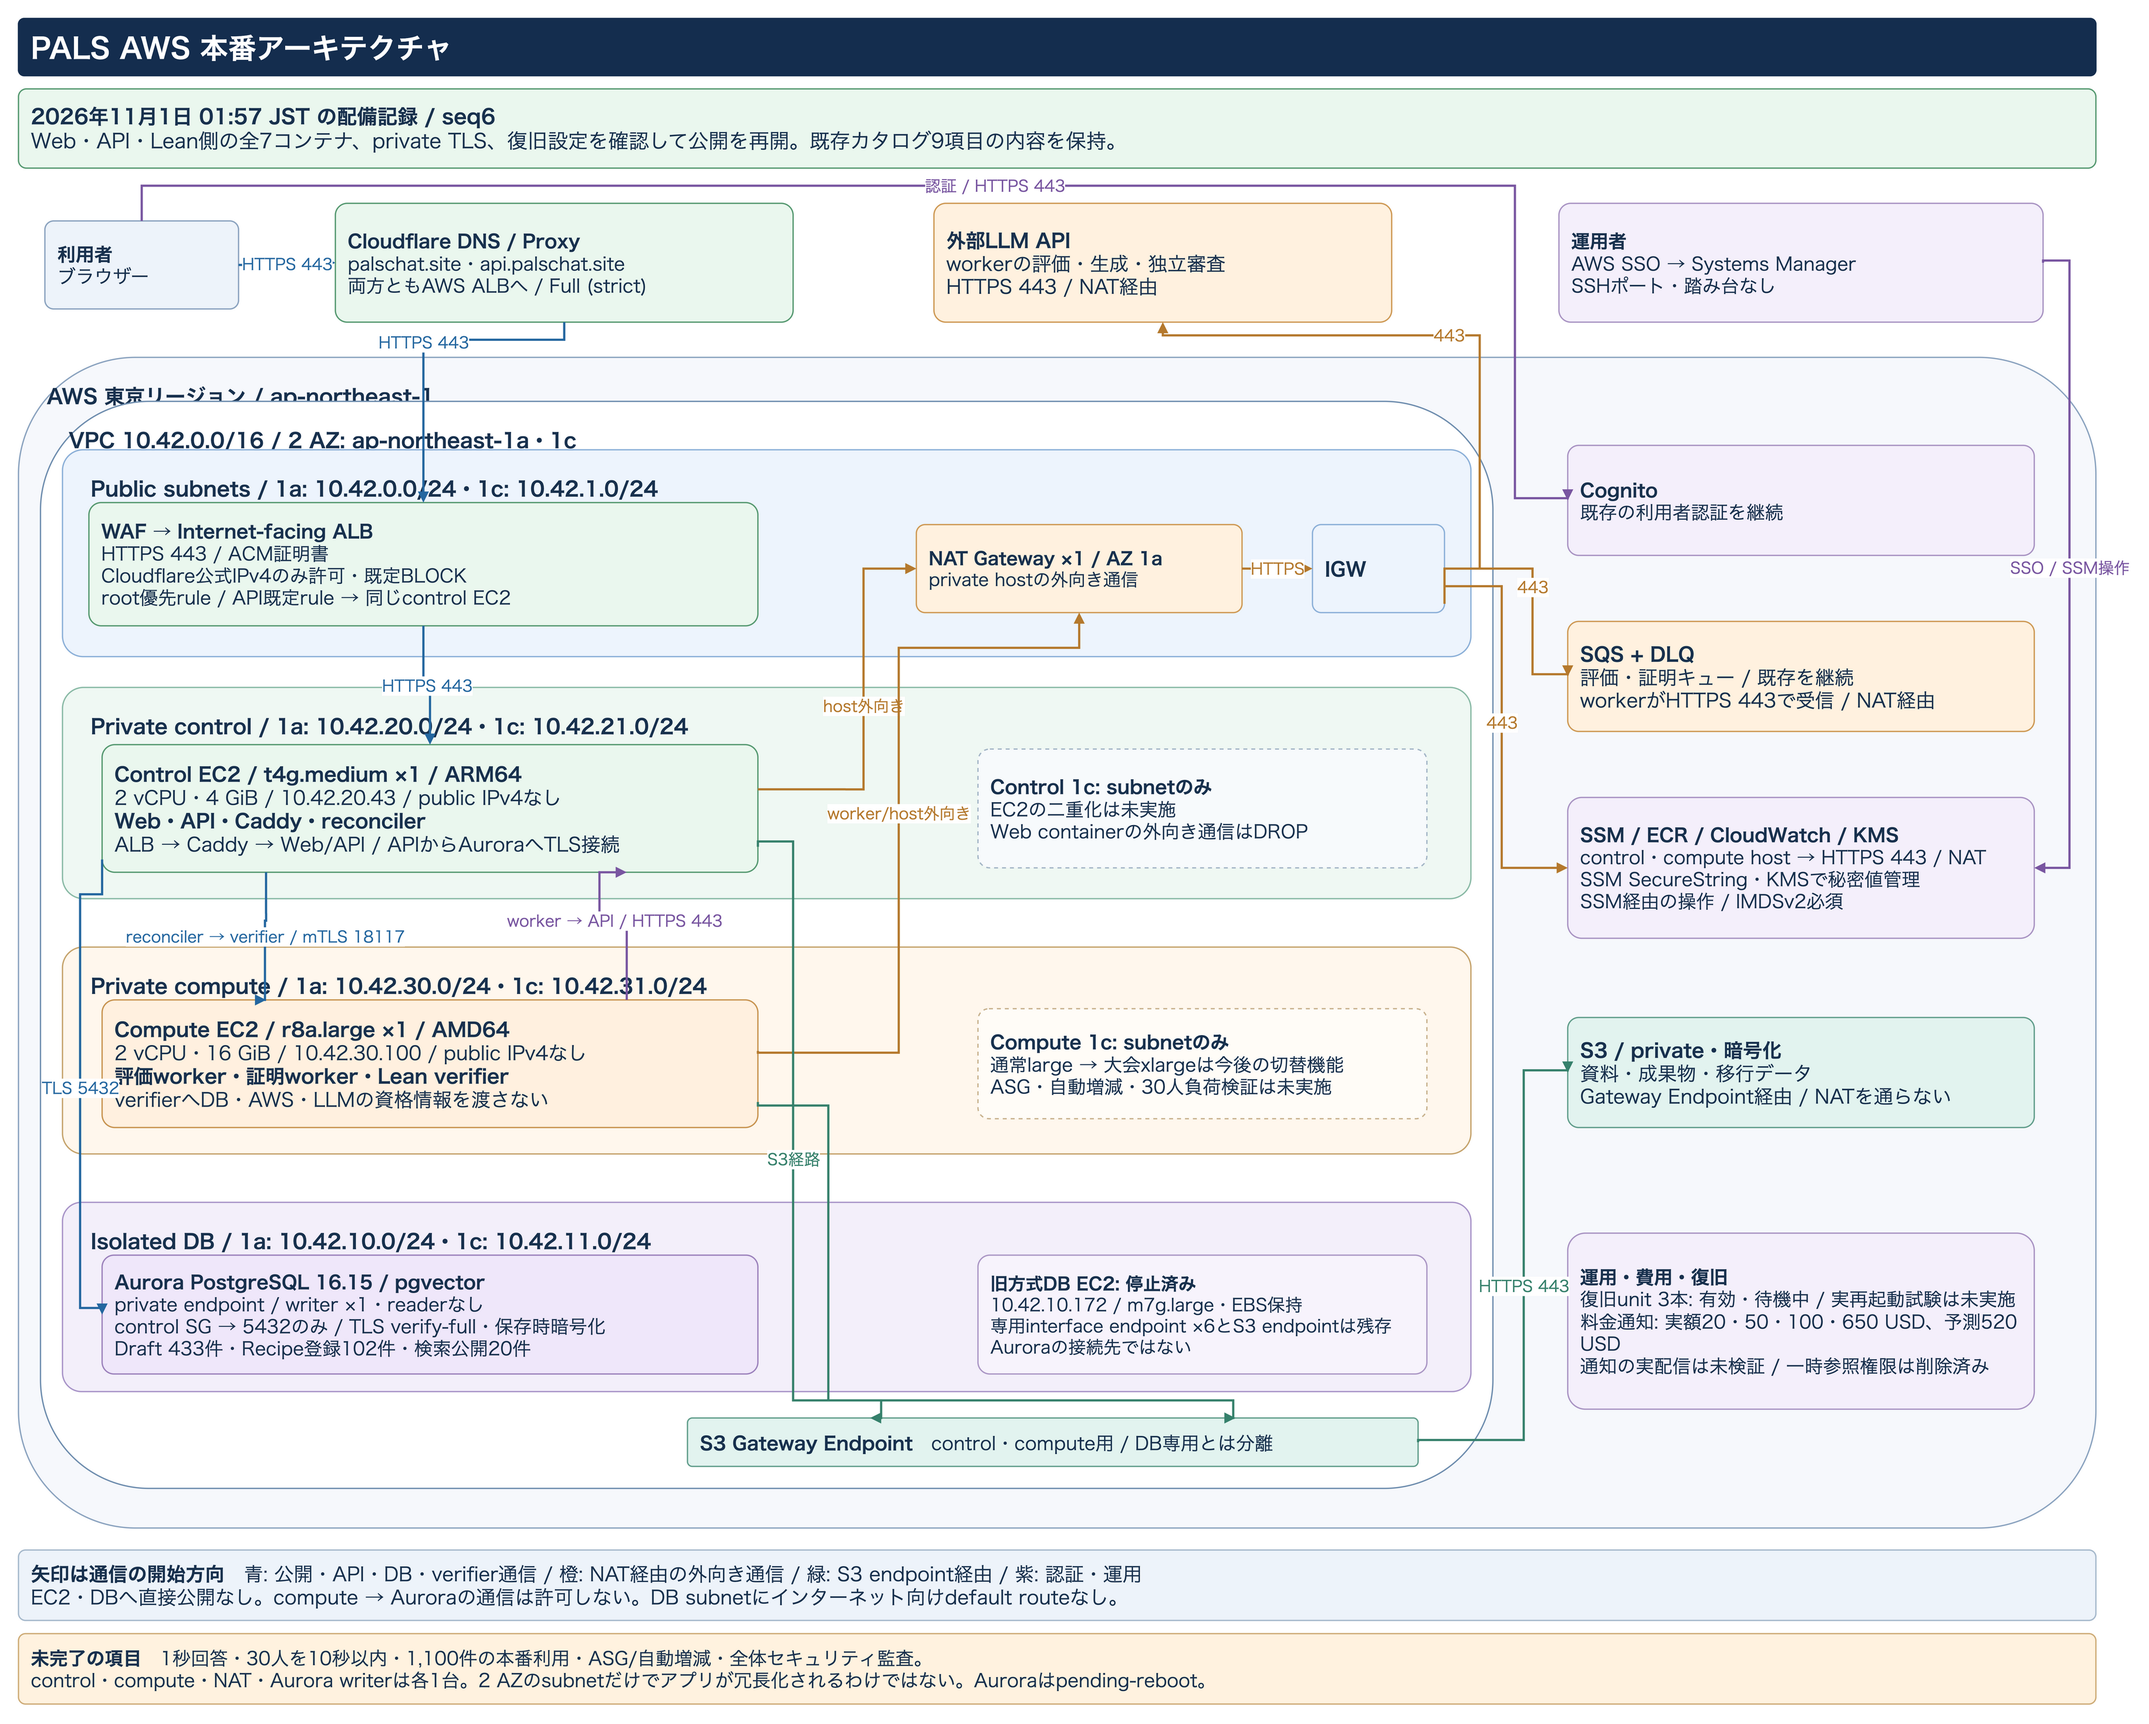
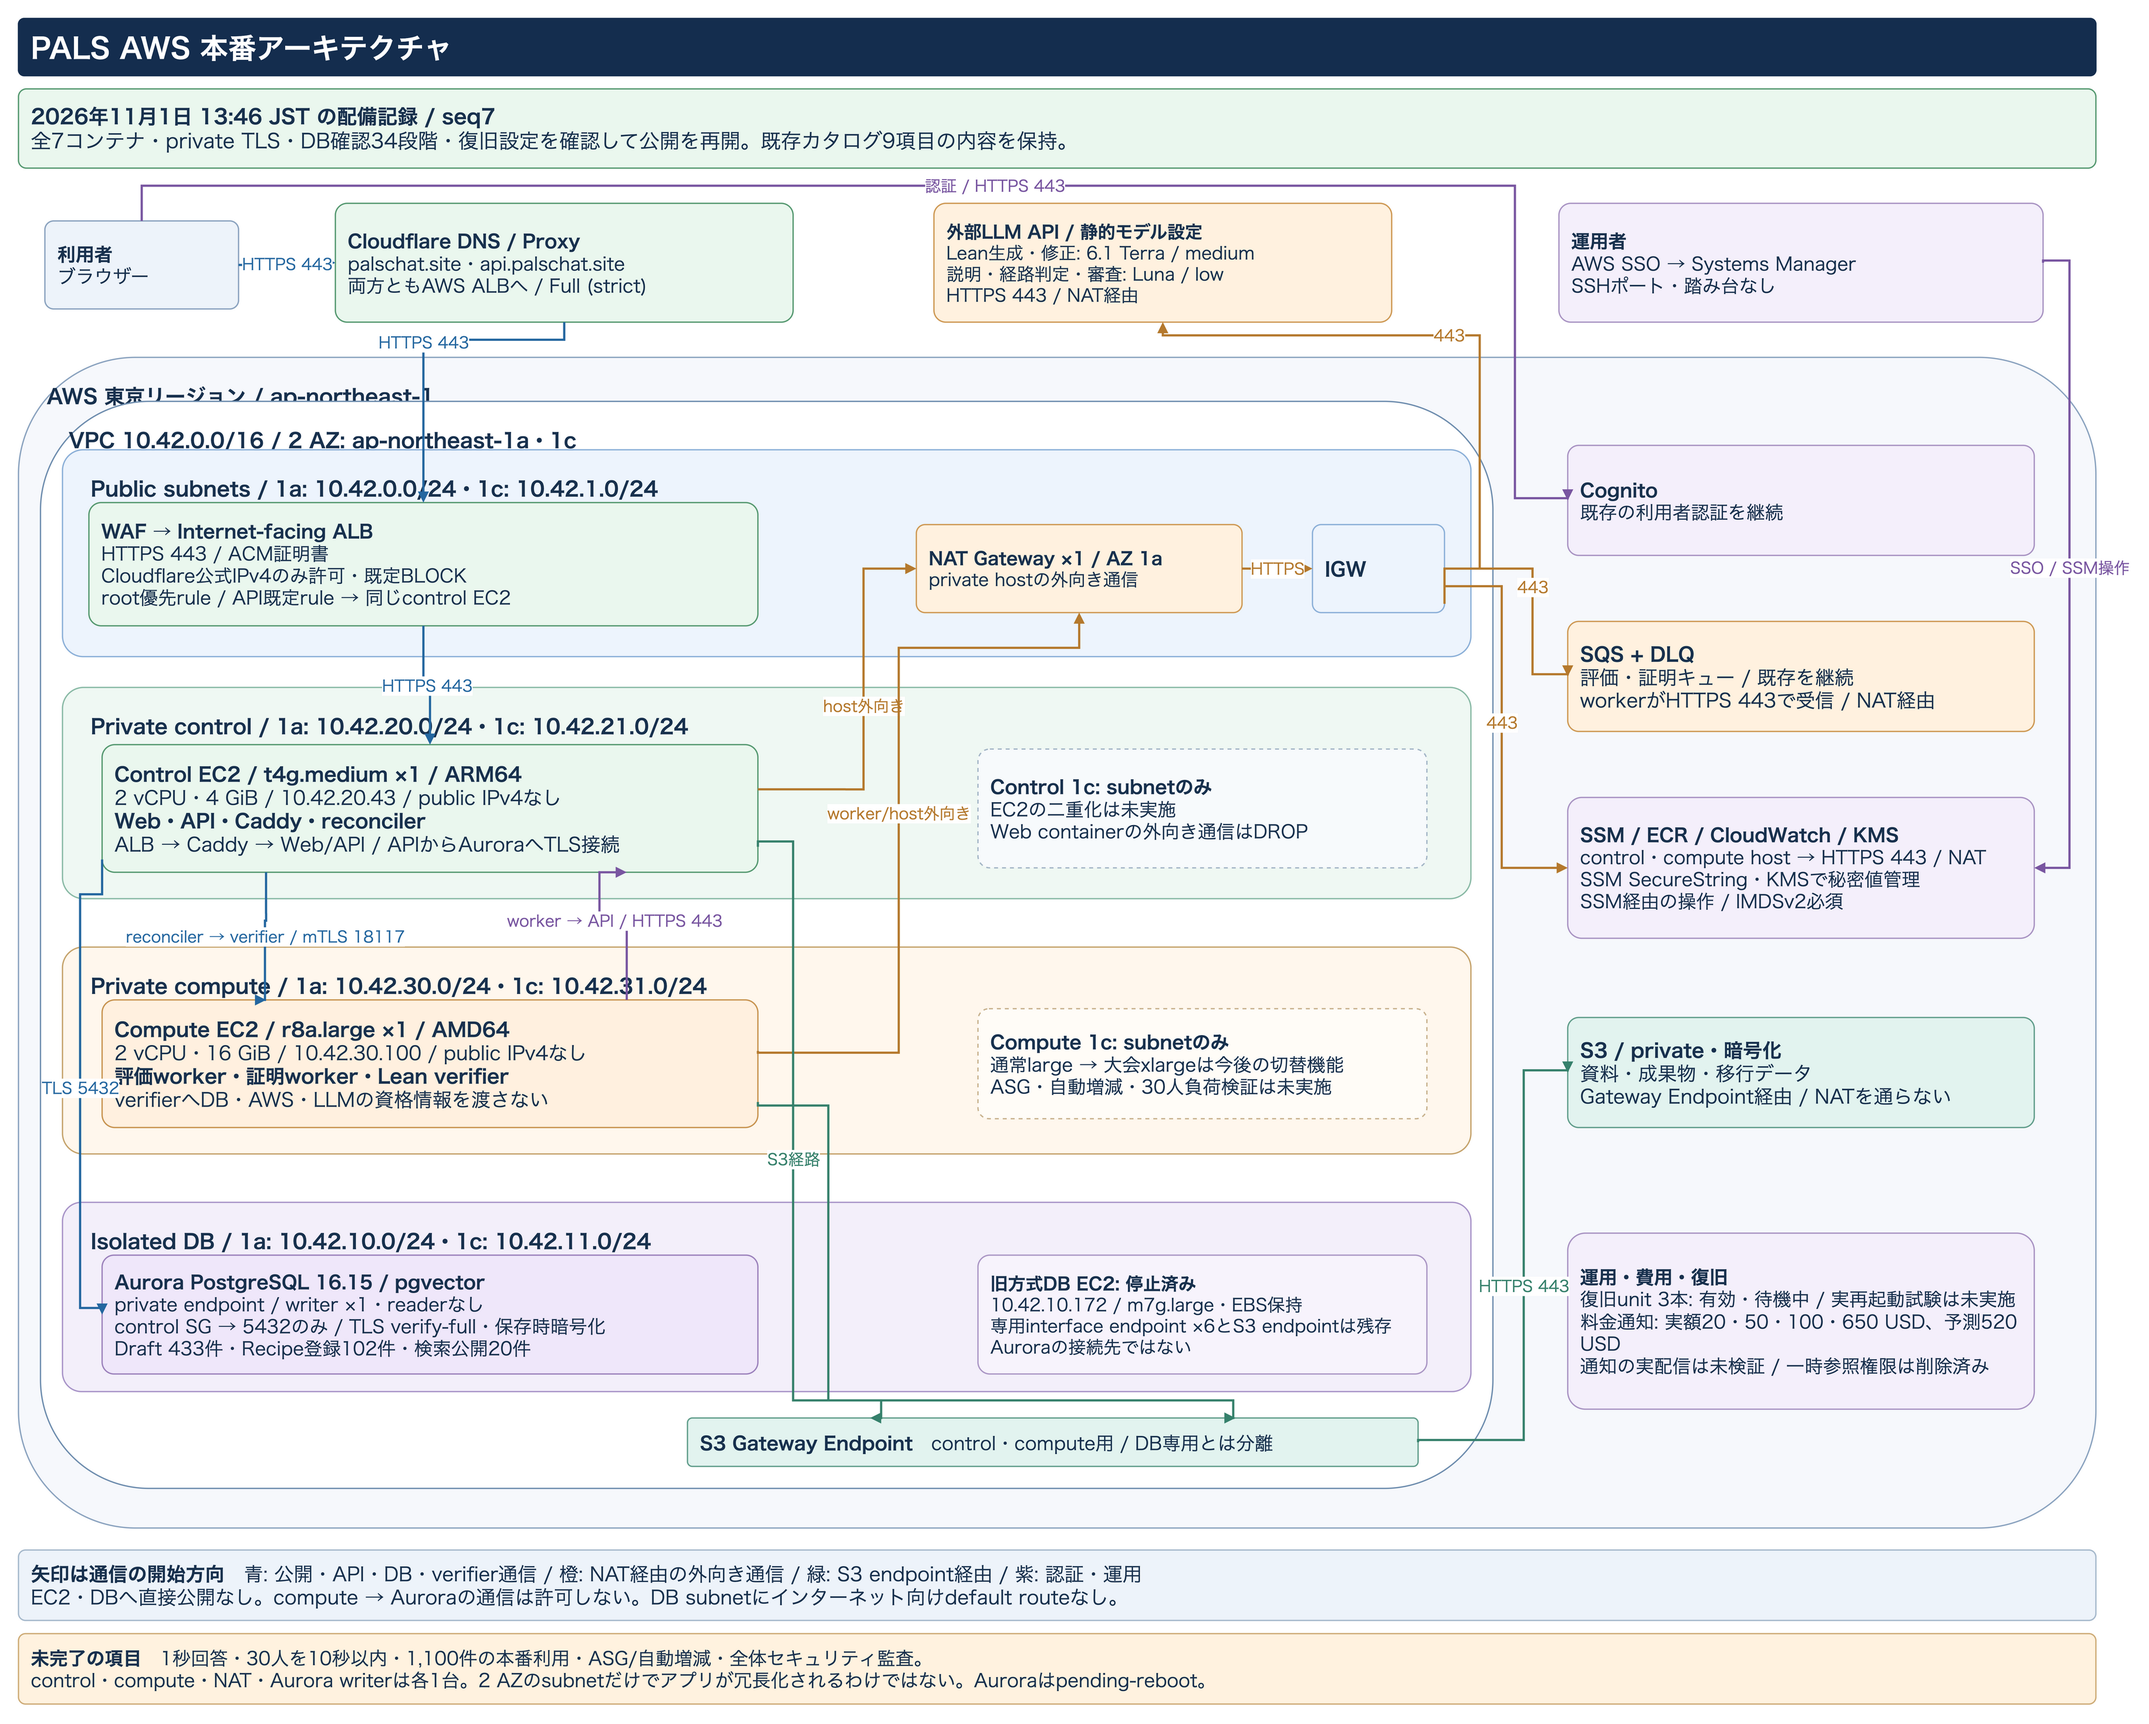
docs: reflect deployed sequence 7 in AWS architecture

Changed region(s): [[0.0, 0.0619, 0.4981, 0.0929], [0.4358, 0.1239, 0.5915, 0.1858]]

diff --git a/docs/diagrams/generate_architecture.py b/docs/diagrams/generate_architecture.py
@@ -1,7 +1,7 @@
 #!/usr/bin/env python3
-"""Generate the editable seq6 architecture snapshot; export PNG with draw.io.
+"""Generate the editable seq7 architecture snapshot; export PNG with draw.io.
 
-Evidence: docs/aws-migration-runbook-2026-10-30.md (seq6),
+Evidence: signed seq7 manifest and actual both-host/catalog read-back receipts,
 docs/aws-security-and-catalog-check-2026-10-31.md. No AWS calls are made.
 All coordinates, labels and connectors below are diagram source, not an image.
 """
@@ -11,7 +11,7 @@ from xml.etree import ElementTree as ET
 DEST = Path(__file__).with_name('pals-aws-private-target.drawio')
 WIDTH, HEIGHT = 2440, 1980
 mxfile = ET.Element('mxfile', host='app.diagrams.net', agent='PALS architecture authoring', version='32.6.1')
-diagram = ET.SubElement(mxfile, 'diagram', id='pals-private-current', name='AWS deployed architecture — seq6 2026-11-01')
+diagram = ET.SubElement(mxfile, 'diagram', id='pals-private-current', name='AWS deployed architecture — seq7 2026-11-01')
 model = ET.SubElement(diagram, 'mxGraphModel', dx=str(WIDTH), dy=str(HEIGHT), grid='1', gridSize='10', guides='1', tooltips='1', connect='1', arrows='1', fold='1', page='1', pageScale='1', pageWidth=str(WIDTH), pageHeight=str(HEIGHT), background='#ffffff', math='0', shadow='0')
 root = ET.SubElement(model, 'root')
 ET.SubElement(root, 'mxCell', id='0')
@@ -43,7 +43,7 @@ def edge(identifier, source, target, value='', color='#2467a0', points=(), extra
 
 # Zones are drawn first. Boxes remain individually editable in draw.io.
 box('title', '<b>PALS AWS 本番アーキテクチャ</b>', 40, 25, 2360, 65, '#142d4e', '#142d4e', 32, 'fontColor=#ffffff;')
-box('snapshot', '<b>2026年11月1日 01:57 JST の配備記録 / seq6</b><br>Web・API・Lean側の全7コンテナ、private TLS、復旧設定を確認して公開を再開。既存カタログ9項目の内容を保持。', 40, 105, 2360, 90, '#eaf7ee', '#579a72', 23)
+box('snapshot', '<b>2026年11月1日 13:46 JST の配備記録 / seq7</b><br>全7コンテナ・private TLS・DB確認34段階・復旧設定を確認して公開を再開。既存カタログ9項目の内容を保持。', 40, 105, 2360, 90, '#eaf7ee', '#579a72', 23)
 zone('region', 'AWS 東京リージョン / ap-northeast-1', 40, 410, 2360, 1330, '#f6f8fc', '#8ca4c0')
 zone('vpc', 'VPC 10.42.0.0/16 / 2 AZ: ap-northeast-1a・1c', 65, 460, 1650, 1235, '#ffffff', '#6f8eaf')
 zone('public', 'Public subnets / 1a: 10.42.0.0/24・1c: 10.42.1.0/24', 90, 515, 1600, 235, '#edf4fd', '#8db1d9')
@@ -70,7 +70,7 @@ box('old_database', '<b>旧方式DB EC2: 停止済み</b><br>10.42.10.172 / m7g.
 box('s3_endpoint', '<b>S3 Gateway Endpoint</b>　control・compute用 / DB専用とは分離', 800, 1615, 830, 55, '#e2f3ef', '#639f8d', 21)
 
 # Regional / external services: endpoint placement is not a private subnet.
-box('llm', '<b>外部LLM API</b><br>workerの評価・生成・独立審査<br>HTTPS 443 / NAT経由', 1080, 235, 520, 135, '#fff1df', '#cf9a56', 22)
+box('llm', '<b>外部LLM API / 静的モデル設定</b><br>Lean生成・修正: 6.1 Terra / medium<br>説明・経路判定・審査: Luna / low<br>HTTPS 443 / NAT経由', 1080, 235, 520, 135, '#fff1df', '#cf9a56', 20)
 box('sqs', '<b>SQS + DLQ</b><br>評価・証明キュー / 既存を継続<br>workerがHTTPS 443で受信 / NAT経由', 1800, 710, 530, 125, '#fff1df', '#cf9a56', 22)
 box('aws_api', '<b>SSM / ECR / CloudWatch / KMS</b><br>control・compute host → HTTPS 443 / NAT<br>SSM SecureString・KMSで秘密値管理<br>SSM経由の操作 / IMDSv2必須', 1800, 910, 530, 160, '#f4effb', '#aa95c4', 21)
 box('s3', '<b>S3 / private・暗号化</b><br>資料・成果物・移行データ<br>Gateway Endpoint経由 / NATを通らない', 1800, 1160, 530, 125, '#e2f3ef', '#639f8d', 22)

diff --git a/docs/diagrams/README.md b/docs/diagrams/README.md
@@ -1,6 +1,6 @@
 # PALSのAWS構成図
 
-2026年11月1日01:57 JSTに公開を再開したseq6の構成を示します。AWS設定の読み戻し記録と、全7コンテナ・サービス間TLS・Auroraのカタログ保持・公開ブラウザの確認結果に基づく配備図です。構成変更を行う際は、実設定を再確認して更新します。
+2026年11月1日13:46 JSTに公開を再開したseq7の構成を示します。AWS設定の読み戻し記録と、全7コンテナ・サービス間TLS・Auroraの34段階の状態確認・カタログ保持・復旧unitの確認結果に基づく配備図です。ログインなしの証明生成と応答時間は、公開後の別の検証で確認します。構成変更を行う際は、実設定を再確認して更新します。
 
 ![PALSのAWS構成図](pals-aws-private-target.png)
 
@@ -24,11 +24,13 @@ WAFはCloudflareの公式IPv4範囲を許可し、既定では拒否します。
 
 ## 確認済みの状態と残る作業
 
[2 lines of base64/hex data omitted]
+
+LeanのDraft・Sketch・Prove・RepairはGPT-6.1 Terraの推論量medium、説明・経路判定・審査はLunaのlowに固定しました。自動的なモデル切り替えは追加していません。Webとverifierのイメージ・toolchainはseq6から変更していません。配備用の一時KMS検証・RDS参照ポリシーは削除し、存在しないことを読み戻しました。
 
 AuroraにはDraft 433件、検証済みの登録Recipe 102件があります。Recipeのうち検索公開済みは20件です。カタログ9項目の件数と内容のfingerprintは更新前後で一致しました。1,100件の本番利用可能という目標は未達成です。
 
-ASG、自動増減、大会時のxlargeへの切り替えは未配備です。1秒回答、30件を10秒以内に処理する性能、ホスト再起動からの復旧は未検証です。Aurora writerは直近の設定確認で`pending-reboot`を示しており、再起動は行っていません。復旧unitは有効ですが、運用ツールによる現リリースの再起動・再構築期限は11月2日01:39:09 JSTです。稼働サービスはこの時刻だけで停止しません。
+ASG、自動増減、大会時のxlargeへの切り替えは未配備です。1秒回答、30件を10秒以内に処理する性能、ホスト再起動からの復旧は未検証です。Aurora writerは直近の設定確認で`pending-reboot`を示しており、再起動は行っていません。復旧unitは有効ですが、運用ツールによる現リリースの再起動・再構築期限は11月2日12:32:25 JSTです。稼働サービスはこの時刻だけで停止しません。
 
 ## 図の編集とPNGの書き出し
 

diff --git a/README.md b/README.md
@@ -13,6 +13,21 @@ GitHub remotes are created.
 
 [PNGを拡大](docs/diagrams/pals-aws-private-target.png) · [draw.ioで編集](docs/diagrams/pals-aws-private-target.drawio) · [配置・通信・確認範囲](docs/diagrams/README.md)
 
+At 2026-11-01 13:46:23 JST, sequence 7 restored the public ALB listener
+and its rules after deploying the API and worker update. All seven containers,
+private TLS, all 34 database readiness steps and the three recovery units passed
+read-back checks. All nine catalog counts and content/vector fingerprints were
+preserved. The signed manifest is
[1 lines of base64/hex data omitted]
+Lean Draft/Sketch/Prove/Repair now use GPT-6.1 Terra with medium reasoning;
+explanation, routing and review roles use Luna with low reasoning. This is a
+static configuration, with no automatic model fallback added. Web and verifier
+images/toolchain are unchanged from sequence 6. The temporary KMS verification
+and RDS read policy was removed, and its absence was read back. Logged-out proof
+generation and its latency require a separate public test; deployment checks alone do not
+establish either result. The earlier observations below retain their original
+release and timing context.
+
 At 2026-11-01 01:29 JST, the signed sequence-5 update was deployed to the
 private AWS runtime, and the Cloudflare/TLS ALB listener and rules were restored.
 A public Japanese tan-one-degree question reached `answered` with its proof and
@@ -66,8 +81,8 @@ generation trial. These are two individual observations, not a controlled
 performance benchmark. One-second answers, the 30-person latency target, and
 automatic scaling remain unachieved or unverified. Recovery units are enabled,
 but an actual reboot test has not been performed. Controlled restart/rebuild
-permission for the newly admitted sequence-6 release expires on 2026-11-02
-at 01:39:09 JST; running services do not stop solely because that time passes. See the runbook for the
+permission for the current sequence-7 release expires on 2026-11-02
+at 12:32:25 JST; running services do not stop solely because that time passes. See the runbook for the
 release window and the shared-network guest quota.
 
 - [Migration runbook and execution status](docs/aws-migration-runbook-2026-10-30.md)
